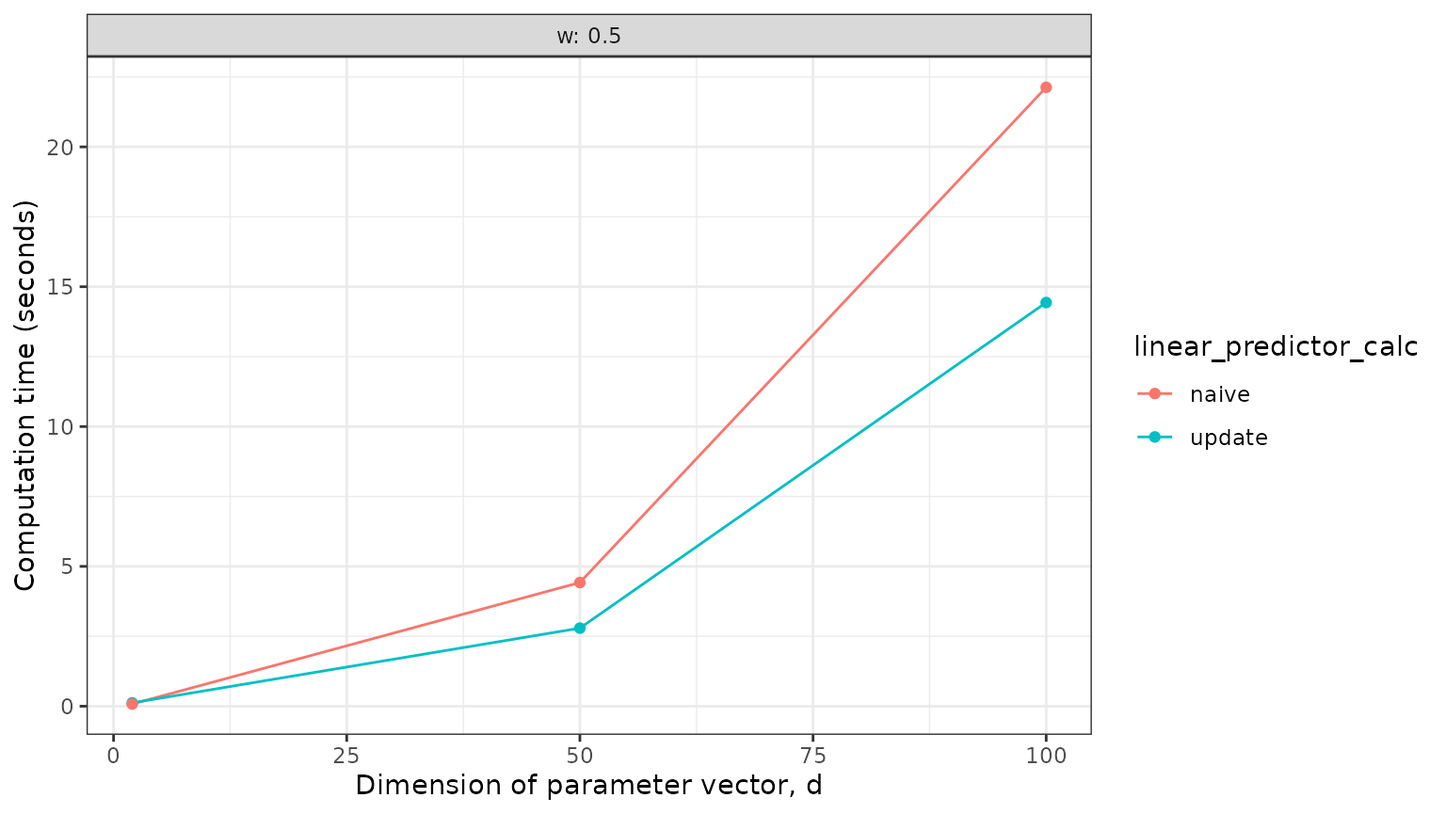
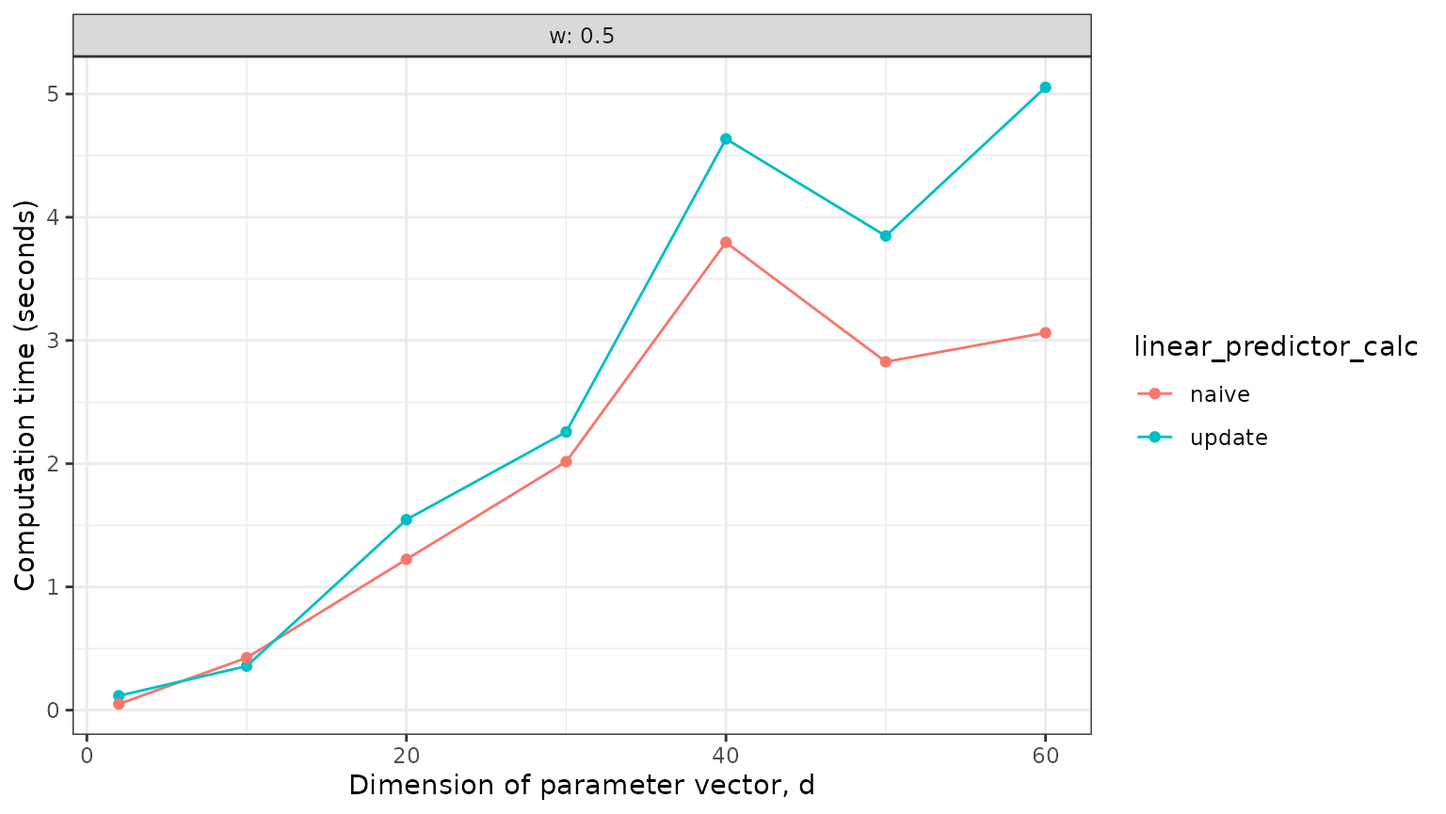
Deploying to gh-pages from @ mathiaslj/mcmcglm@ab415c5ea6511dbfe529859b90fce0186128da7c 🚀

diff --git a/reference/plot_eta_comptime.html b/reference/plot_eta_comptime.html
@@ -76,30 +76,30 @@ affects runtime</p></dd>
 <span class="r-in"><span>                                         n_samples <span class="op">=</span> <span class="fl">100</span>,</span></span>
 <span class="r-in"><span>                                         burnin <span class="op">=</span> <span class="fl">20</span><span class="op">)</span></span></span>
 <span class="r-msg co"><span class="r-pr">#&gt;</span> Sampling from posterior <span style="color: #00BB00;">■■■■■■■                         </span>  19% | ETA:  4s</span>
-<span class="r-msg co"><span class="r-pr">#&gt;</span> Sampling from posterior <span style="color: #00BB00;">■■■■■■■■■■■■■■■■■■■■■■■■■■■■    </span>  91% | ETA:  0s</span>
+<span class="r-msg co"><span class="r-pr">#&gt;</span> Sampling from posterior <span style="color: #00BB00;">■■■■■■■■■■■■■■■■■■■■■■■■        </span>  77% | ETA:  1s</span>
 <span class="r-msg co"><span class="r-pr">#&gt;</span> Sampling from posterior <span style="color: #00BB00;">■■■■■■■■■■■■■■■■■■■■■■■■■■■■■■■ </span> 100% | ETA:  0s</span>
-<span class="r-msg co"><span class="r-pr">#&gt;</span> Sampling from posterior <span style="color: #00BB00;">■■■■■■■■■■■■■■■■■■■■■■■         </span>  73% | ETA:  1s</span>
+<span class="r-msg co"><span class="r-pr">#&gt;</span> Sampling from posterior <span style="color: #00BB00;">■■■■■■■■■■■■■■■■■■■             </span>  59% | ETA:  2s</span>
 <span class="r-msg co"><span class="r-pr">#&gt;</span> Sampling from posterior <span style="color: #00BB00;">■■■■■■■■■■■■■■■■■■■■■■■■■■■■■■■ </span> 100% | ETA:  0s</span>
-<span class="r-msg co"><span class="r-pr">#&gt;</span> Sampling from posterior <span style="color: #00BB00;">■■■■■                           </span>  13% | ETA: 14s</span>
-<span class="r-msg co"><span class="r-pr">#&gt;</span> Sampling from posterior <span style="color: #00BB00;">■■■■■■■■■■■■■■■                 </span>  48% | ETA:  5s</span>
-<span class="r-msg co"><span class="r-pr">#&gt;</span> Sampling from posterior <span style="color: #00BB00;">■■■■■■■■■■■■■■■■■■■■■■■■■■■     </span>  86% | ETA:  1s</span>
+<span class="r-msg co"><span class="r-pr">#&gt;</span> Sampling from posterior <span style="color: #00BB00;">■■■                             </span>   7% | ETA: 21s</span>
+<span class="r-msg co"><span class="r-pr">#&gt;</span> Sampling from posterior <span style="color: #00BB00;">■■■■■■■■■■■■■■                  </span>  43% | ETA:  6s</span>
+<span class="r-msg co"><span class="r-pr">#&gt;</span> Sampling from posterior <span style="color: #00BB00;">■■■■■■■■■■■■■■■■■■■■■■■■■       </span>  80% | ETA:  2s</span>
 <span class="r-msg co"><span class="r-pr">#&gt;</span> Sampling from posterior <span style="color: #00BB00;">■■■■■■■■■■■■■■■■■■■■■■■■■■■■■■■ </span> 100% | ETA:  0s</span>
-<span class="r-msg co"><span class="r-pr">#&gt;</span> Sampling from posterior <span style="color: #00BB00;">■■                              </span>   3% | ETA:  1m</span>
-<span class="r-msg co"><span class="r-pr">#&gt;</span> Sampling from posterior <span style="color: #00BB00;">■■■■■■■■■■■                     </span>  34% | ETA:  9s</span>
-<span class="r-msg co"><span class="r-pr">#&gt;</span> Sampling from posterior <span style="color: #00BB00;">■■■■■■■■■■■■■■■■■■■■■■■■        </span>  78% | ETA:  2s</span>
+<span class="r-msg co"><span class="r-pr">#&gt;</span> Sampling from posterior <span style="color: #00BB00;">■■                              </span>   2% | ETA:  1m</span>
+<span class="r-msg co"><span class="r-pr">#&gt;</span> Sampling from posterior <span style="color: #00BB00;">■■■■■■■■■                       </span>  27% | ETA: 12s</span>
+<span class="r-msg co"><span class="r-pr">#&gt;</span> Sampling from posterior <span style="color: #00BB00;">■■■■■■■■■■■■■■■■■■■■■■          </span>  70% | ETA:  3s</span>
 <span class="r-msg co"><span class="r-pr">#&gt;</span> Sampling from posterior <span style="color: #00BB00;">■■■■■■■■■■■■■■■■■■■■■■■■■■■■■■■ </span> 100% | ETA:  0s</span>
 <span class="r-msg co"><span class="r-pr">#&gt;</span> Sampling from posterior <span style="color: #00BB00;">■                               </span>   1% | ETA:  4m</span>
-<span class="r-msg co"><span class="r-pr">#&gt;</span> Sampling from posterior <span style="color: #00BB00;">■■■                             </span>   7% | ETA:  1m</span>
-<span class="r-msg co"><span class="r-pr">#&gt;</span> Sampling from posterior <span style="color: #00BB00;">■■■■■■■■                        </span>  24% | ETA: 24s</span>
-<span class="r-msg co"><span class="r-pr">#&gt;</span> Sampling from posterior <span style="color: #00BB00;">■■■■■■■■■■■■■■                  </span>  44% | ETA: 13s</span>
-<span class="r-msg co"><span class="r-pr">#&gt;</span> Sampling from posterior <span style="color: #00BB00;">■■■■■■■■■■■■■■■■■■■■■           </span>  66% | ETA:  7s</span>
-<span class="r-msg co"><span class="r-pr">#&gt;</span> Sampling from posterior <span style="color: #00BB00;">■■■■■■■■■■■■■■■■■■■■■■■■■■■■    </span>  89% | ETA:  2s</span>
+<span class="r-msg co"><span class="r-pr">#&gt;</span> Sampling from posterior <span style="color: #00BB00;">■■■                             </span>   5% | ETA:  1m</span>
+<span class="r-msg co"><span class="r-pr">#&gt;</span> Sampling from posterior <span style="color: #00BB00;">■■■■■■■                         </span>  20% | ETA: 28s</span>
+<span class="r-msg co"><span class="r-pr">#&gt;</span> Sampling from posterior <span style="color: #00BB00;">■■■■■■■■■■■■■                   </span>  40% | ETA: 15s</span>
+<span class="r-msg co"><span class="r-pr">#&gt;</span> Sampling from posterior <span style="color: #00BB00;">■■■■■■■■■■■■■■■■■■■             </span>  61% | ETA:  8s</span>
+<span class="r-msg co"><span class="r-pr">#&gt;</span> Sampling from posterior <span style="color: #00BB00;">■■■■■■■■■■■■■■■■■■■■■■■■■■      </span>  83% | ETA:  3s</span>
 <span class="r-msg co"><span class="r-pr">#&gt;</span> Sampling from posterior <span style="color: #00BB00;">■■■■■■■■■■■■■■■■■■■■■■■■■■■■■■■ </span> 100% | ETA:  0s</span>
-<span class="r-msg co"><span class="r-pr">#&gt;</span> Sampling from posterior <span style="color: #00BB00;">■■                              </span>   3% | ETA: 48s</span>
-<span class="r-msg co"><span class="r-pr">#&gt;</span> Sampling from posterior <span style="color: #00BB00;">■■■■■■■■■                       </span>  26% | ETA: 13s</span>
-<span class="r-msg co"><span class="r-pr">#&gt;</span> Sampling from posterior <span style="color: #00BB00;">■■■■■■■■■■■■■■■■                </span>  49% | ETA:  8s</span>
-<span class="r-msg co"><span class="r-pr">#&gt;</span> Sampling from posterior <span style="color: #00BB00;">■■■■■■■■■■■■■■■■■■■■■■■         </span>  74% | ETA:  4s</span>
-<span class="r-msg co"><span class="r-pr">#&gt;</span> Sampling from posterior <span style="color: #00BB00;">■■■■■■■■■■■■■■■■■■■■■■■■■■■■■■■ </span>  99% | ETA:  0s</span>
+<span class="r-msg co"><span class="r-pr">#&gt;</span> Sampling from posterior <span style="color: #00BB00;">■                               </span>   1% | ETA:  2m</span>
+<span class="r-msg co"><span class="r-pr">#&gt;</span> Sampling from posterior <span style="color: #00BB00;">■■■■■■■                         </span>  20% | ETA: 15s</span>
+<span class="r-msg co"><span class="r-pr">#&gt;</span> Sampling from posterior <span style="color: #00BB00;">■■■■■■■■■■■■■■                  </span>  43% | ETA:  9s</span>
+<span class="r-msg co"><span class="r-pr">#&gt;</span> Sampling from posterior <span style="color: #00BB00;">■■■■■■■■■■■■■■■■■■■■■           </span>  68% | ETA:  5s</span>
+<span class="r-msg co"><span class="r-pr">#&gt;</span> Sampling from posterior <span style="color: #00BB00;">■■■■■■■■■■■■■■■■■■■■■■■■■■■■■   </span>  93% | ETA:  1s</span>
 <span class="r-msg co"><span class="r-pr">#&gt;</span> Sampling from posterior <span style="color: #00BB00;">■■■■■■■■■■■■■■■■■■■■■■■■■■■■■■■ </span> 100% | ETA:  0s</span>
 <span class="r-in"><span><span class="fu">plot_eta_comptime</span><span class="op">(</span><span class="va">res</span><span class="op">)</span></span></span>
 <span class="r-msg co"><span class="r-pr">#&gt;</span> Don't know how to automatically pick scale for object of type <span style="color: #0000BB;">&lt;difftime&gt;</span>.</span>

diff --git a/reference/compare_eta_comptime_across_nvars.html b/reference/compare_eta_comptime_across_nvars.html
@@ -146,12 +146,12 @@ than the number of available cores</p></dd>
 <span class="r-in"><span>                                  n_samples <span class="op">=</span> <span class="fl">100</span>,</span></span>
 <span class="r-in"><span>                                  burnin <span class="op">=</span> <span class="fl">20</span><span class="op">)</span></span></span>
 <span class="r-msg co"><span class="r-pr">#&gt;</span> Sampling from posterior <span style="color: #00BB00;">■■■■■■■                         </span>  19% | ETA:  4s</span>
+<span class="r-msg co"><span class="r-pr">#&gt;</span> Sampling from posterior <span style="color: #00BB00;">■■■■■■■■■■■■■■■■■■■■■■■■■■■■■■  </span>  97% | ETA:  0s</span>
 <span class="r-msg co"><span class="r-pr">#&gt;</span> Sampling from posterior <span style="color: #00BB00;">■■■■■■■■■■■■■■■■■■■■■■■■■■■■■■■ </span> 100% | ETA:  0s</span>
-<span class="r-msg co"><span class="r-pr">#&gt;</span> Sampling from posterior <span style="color: #00BB00;">■■■■■■                          </span>  18% | ETA:  5s</span>
-<span class="r-msg co"><span class="r-pr">#&gt;</span> Sampling from posterior <span style="color: #00BB00;">■■■■■■■■■■■■■■■■■■■■■■■■        </span>  78% | ETA:  1s</span>
+<span class="r-msg co"><span class="r-pr">#&gt;</span> Sampling from posterior <span style="color: #00BB00;">■■■■■■■■■■■■■■■■■■■■■■■         </span>  73% | ETA:  1s</span>
 <span class="r-msg co"><span class="r-pr">#&gt;</span> Sampling from posterior <span style="color: #00BB00;">■■■■■■■■■■■■■■■■■■■■■■■■■■■■■■■ </span> 100% | ETA:  0s</span>
-<span class="r-msg co"><span class="r-pr">#&gt;</span> Sampling from posterior <span style="color: #00BB00;">■■■■■                           </span>  12% | ETA: 16s</span>
-<span class="r-msg co"><span class="r-pr">#&gt;</span> Sampling from posterior <span style="color: #00BB00;">■■■■■■■■■■■■■■■■                </span>  51% | ETA:  5s</span>
+<span class="r-msg co"><span class="r-pr">#&gt;</span> Sampling from posterior <span style="color: #00BB00;">■■■■                            </span>  10% | ETA: 18s</span>
+<span class="r-msg co"><span class="r-pr">#&gt;</span> Sampling from posterior <span style="color: #00BB00;">■■■■■■■■■■■■■■■■                </span>  50% | ETA:  5s</span>
 <span class="r-msg co"><span class="r-pr">#&gt;</span> Sampling from posterior <span style="color: #00BB00;">■■■■■■■■■■■■■■■■■■■■■■■■■■■■    </span>  90% | ETA:  1s</span>
 <span class="r-msg co"><span class="r-pr">#&gt;</span> Sampling from posterior <span style="color: #00BB00;">■■■■■■■■■■■■■■■■■■■■■■■■■■■■■■■ </span> 100% | ETA:  0s</span>
 <span class="r-msg co"><span class="r-pr">#&gt;</span> Sampling from posterior <span style="color: #00BB00;">■■■■■                           </span>  13% | ETA: 15s</span>
@@ -162,22 +162,23 @@ than the number of available cores</p></dd>
 <span class="r-msg co"><span class="r-pr">#&gt;</span> Sampling from posterior <span style="color: #00BB00;">■■■■■                           </span>  12% | ETA: 38s</span>
 <span class="r-msg co"><span class="r-pr">#&gt;</span> Sampling from posterior <span style="color: #00BB00;">■■■■■■■■■■■                     </span>  32% | ETA: 17s</span>
 <span class="r-msg co"><span class="r-pr">#&gt;</span> Sampling from posterior <span style="color: #00BB00;">■■■■■■■■■■■■■■■■■               </span>  54% | ETA: 10s</span>
-<span class="r-msg co"><span class="r-pr">#&gt;</span> Sampling from posterior <span style="color: #00BB00;">■■■■■■■■■■■■■■■■■■■■■■■■        </span>  76% | ETA:  4s</span>
+<span class="r-msg co"><span class="r-pr">#&gt;</span> Sampling from posterior <span style="color: #00BB00;">■■■■■■■■■■■■■■■■■■■■■■■■        </span>  77% | ETA:  4s</span>
 <span class="r-msg co"><span class="r-pr">#&gt;</span> Sampling from posterior <span style="color: #00BB00;">■■■■■■■■■■■■■■■■■■■■■■■■■■■■■■■ </span> 100% | ETA:  0s</span>
-<span class="r-msg co"><span class="r-pr">#&gt;</span> Sampling from posterior <span style="color: #00BB00;">■■■■                            </span>   9% | ETA: 30s</span>
-<span class="r-msg co"><span class="r-pr">#&gt;</span> Sampling from posterior <span style="color: #00BB00;">■■■■■■■■■■■                     </span>  32% | ETA: 13s</span>
-<span class="r-msg co"><span class="r-pr">#&gt;</span> Sampling from posterior <span style="color: #00BB00;">■■■■■■■■■■■■■■■■■■              </span>  56% | ETA:  7s</span>
-<span class="r-msg co"><span class="r-pr">#&gt;</span> Sampling from posterior <span style="color: #00BB00;">■■■■■■■■■■■■■■■■■■■■■■■■■       </span>  80% | ETA:  3s</span>
+<span class="r-msg co"><span class="r-pr">#&gt;</span> Sampling from posterior <span style="color: #00BB00;">■                               </span>   1% | ETA:  3m</span>
+<span class="r-msg co"><span class="r-pr">#&gt;</span> Sampling from posterior <span style="color: #00BB00;">■■■■                            </span>  10% | ETA: 28s</span>
+<span class="r-msg co"><span class="r-pr">#&gt;</span> Sampling from posterior <span style="color: #00BB00;">■■■■■■■■■■■                     </span>  33% | ETA: 12s</span>
+<span class="r-msg co"><span class="r-pr">#&gt;</span> Sampling from posterior <span style="color: #00BB00;">■■■■■■■■■■■■■■■■■■              </span>  58% | ETA:  7s</span>
+<span class="r-msg co"><span class="r-pr">#&gt;</span> Sampling from posterior <span style="color: #00BB00;">■■■■■■■■■■■■■■■■■■■■■■■■■■      </span>  82% | ETA:  3s</span>
 <span class="r-msg co"><span class="r-pr">#&gt;</span> Sampling from posterior <span style="color: #00BB00;">■■■■■■■■■■■■■■■■■■■■■■■■■■■■■■■ </span> 100% | ETA:  0s</span>
 <span class="r-out co"><span class="r-pr">#&gt;</span>              time linear_predictor_calc n_vars n_samples beta_mean</span>
-<span class="r-out co"><span class="r-pr">#&gt;</span> 1  0.3406396 secs                update      2       100         0</span>
-<span class="r-out co"><span class="r-pr">#&gt;</span> 2  0.3130715 secs                 naive      2       100         0</span>
-<span class="r-out co"><span class="r-pr">#&gt;</span> 3  3.8115304 secs                update     20       100         0</span>
-<span class="r-out co"><span class="r-pr">#&gt;</span> 4  3.8756001 secs                 naive     20       100         0</span>
-<span class="r-out co"><span class="r-pr">#&gt;</span> 5  8.9618044 secs                update     40       100         0</span>
-<span class="r-out co"><span class="r-pr">#&gt;</span> 6  9.0437057 secs                 naive     40       100         0</span>
-<span class="r-out co"><span class="r-pr">#&gt;</span> 7 17.2736514 secs                update     60       100         0</span>
-<span class="r-out co"><span class="r-pr">#&gt;</span> 8 14.3368897 secs                 naive     60       100         0</span>
+<span class="r-out co"><span class="r-pr">#&gt;</span> 1  0.3397615 secs                update      2       100         0</span>
+<span class="r-out co"><span class="r-pr">#&gt;</span> 2  0.3101087 secs                 naive      2       100         0</span>
+<span class="r-out co"><span class="r-pr">#&gt;</span> 3  3.8275478 secs                update     20       100         0</span>
+<span class="r-out co"><span class="r-pr">#&gt;</span> 4  3.8218234 secs                 naive     20       100         0</span>
+<span class="r-out co"><span class="r-pr">#&gt;</span> 5  8.8243313 secs                update     40       100         0</span>
+<span class="r-out co"><span class="r-pr">#&gt;</span> 6  9.0535982 secs                 naive     40       100         0</span>
+<span class="r-out co"><span class="r-pr">#&gt;</span> 7 17.1567833 secs                update     60       100         0</span>
+<span class="r-out co"><span class="r-pr">#&gt;</span> 8 14.1730142 secs                 naive     60       100         0</span>
 <span class="r-out co"><span class="r-pr">#&gt;</span>   beta_variance   family sd                 qslice_fun   w parallelised</span>
 <span class="r-out co"><span class="r-pr">#&gt;</span> 1             1 gaussian  1 qslice::slice_stepping_out 0.5        FALSE</span>
 <span class="r-out co"><span class="r-pr">#&gt;</span> 2             1 gaussian  1 qslice::slice_stepping_out 0.5        FALSE</span>

diff --git a/articles/performance.html b/articles/performance.html
@@ -74,24 +74,31 @@
 </h3>
 <div class="sourceCode" id="cb1"><pre class="downlit sourceCode r">
 <code class="sourceCode R"><span><span class="va">res</span> <span class="op">&lt;-</span> <span class="fu"><a href="../reference/compare_eta_comptime_across_nvars.html">compare_eta_comptime_across_nvars</a></span><span class="op">(</span></span>
-<span>  n_vars <span class="op">=</span> <span class="fu"><a href="https://rdrr.io/r/base/c.html" class="external-link">c</a></span><span class="op">(</span><span class="fl">2</span>, <span class="fu"><a href="https://rdrr.io/r/base/seq.html" class="external-link">seq</a></span><span class="op">(</span>from <span class="op">=</span> <span class="fl">50</span>, to <span class="op">=</span> <span class="fl">100</span>, by <span class="op">=</span> <span class="fl">50</span><span class="op">)</span><span class="op">)</span>,</span>
+<span>  n_vars <span class="op">=</span> <span class="fu"><a href="https://rdrr.io/r/base/c.html" class="external-link">c</a></span><span class="op">(</span><span class="fl">2</span>, <span class="fu"><a href="https://rdrr.io/r/base/seq.html" class="external-link">seq</a></span><span class="op">(</span>from <span class="op">=</span> <span class="fl">10</span>, to <span class="op">=</span> <span class="fl">60</span>, by <span class="op">=</span> <span class="fl">10</span><span class="op">)</span><span class="op">)</span>,</span>
 <span>  n_samples <span class="op">=</span> <span class="fl">10</span>,</span>
 <span>  burnin <span class="op">=</span> <span class="fl">1</span>,</span>
 <span>  w <span class="op">=</span> <span class="fl">0.5</span>,</span>
 <span>  parallelise <span class="op">=</span> <span class="cn">TRUE</span><span class="op">)</span></span>
-<span><span class="co">#&gt; Sampling from posterior <span style="color: #00BB00;">■■■■                            </span>  10% | ETA: 13s</span></span>
-<span><span class="co">#&gt; Sampling from posterior <span style="color: #00BB00;">■■■■■■■■■■■■■■■■■■■■■■■■■■■■    </span>  90% | ETA:  0s</span></span>
+<span><span class="co">#&gt; Sampling from posterior <span style="color: #00BB00;">■■■■■■■■■■■■■■■■                </span>  50% | ETA:  1s</span></span>
 <span><span class="co">#&gt; Sampling from posterior <span style="color: #00BB00;">■■■■■■■■■■■■■■■■■■■■■■■■■■■■■■■ </span> 100% | ETA:  0s</span></span>
-<span><span class="co">#&gt; Sampling from posterior <span style="color: #00BB00;">■■■■■■■■■■                      </span>  30% | ETA:  7s</span></span>
+<span><span class="co">#&gt; Sampling from posterior <span style="color: #00BB00;">■■■■                            </span>  10% | ETA: 11s</span></span>
 <span><span class="co">#&gt; Sampling from posterior <span style="color: #00BB00;">■■■■■■■■■■■■■■■■■■■■■■■■■■■■■■■ </span> 100% | ETA:  0s</span></span>
-<span><span class="co">#&gt; Sampling from posterior <span style="color: #00BB00;">■■■■                            </span>  10% | ETA:  2m</span></span>
-<span><span class="co">#&gt; Sampling from posterior <span style="color: #00BB00;">■■■■■■■                         </span>  20% | ETA: 46s</span></span>
+<span><span class="co">#&gt; Sampling from posterior <span style="color: #00BB00;">■■■■                            </span>  10% | ETA: 12s</span></span>
 <span><span class="co">#&gt; Sampling from posterior <span style="color: #00BB00;">■■■■■■■■■■■■■■■■■■■■■■■■■■■■■■■ </span> 100% | ETA:  0s</span></span>
-<span><span class="co">#&gt; Sampling from posterior <span style="color: #00BB00;">■■■■                            </span>  10% | ETA:  2m</span></span>
-<span><span class="co">#&gt; Sampling from posterior <span style="color: #00BB00;">■■■■■■■                         </span>  20% | ETA:  1m</span></span>
-<span><span class="co">#&gt; Sampling from posterior <span style="color: #00BB00;">■■■■■■■■■■                      </span>  30% | ETA: 39s</span></span>
-<span><span class="co">#&gt; Sampling from posterior <span style="color: #00BB00;">■■■■■■■■■■■■■                   </span>  40% | ETA: 28s</span></span>
-<span><span class="co">#&gt; Sampling from posterior <span style="color: #00BB00;">■■■■■■■■■■■■■■■■■■■■■■■■■■■■    </span>  90% | ETA:  2s</span></span>
+<span><span class="co">#&gt; Sampling from posterior <span style="color: #00BB00;">■■■■                            </span>  10% | ETA: 19s</span></span>
+<span><span class="co">#&gt; Sampling from posterior <span style="color: #00BB00;">■■■■■■■                         </span>  20% | ETA: 11s</span></span>
+<span><span class="co">#&gt; Sampling from posterior <span style="color: #00BB00;">■■■■■■■■■■■■■■■■■■■■■■■■■■■■■■■ </span> 100% | ETA:  0s</span></span>
+<span><span class="co">#&gt; Sampling from posterior <span style="color: #00BB00;">■■■■                            </span>  10% | ETA: 21s</span></span>
+<span><span class="co">#&gt; Sampling from posterior <span style="color: #00BB00;">■■■■■■■■■■■■■■■■■■■■■■■■■■■■■■■ </span> 100% | ETA:  0s</span></span>
+<span><span class="co">#&gt; Sampling from posterior <span style="color: #00BB00;">■■■■                            </span>  10% | ETA: 20s</span></span>
+<span><span class="co">#&gt; Sampling from posterior <span style="color: #00BB00;">■■■■■■■                         </span>  20% | ETA: 10s</span></span>
+<span><span class="co">#&gt; Sampling from posterior <span style="color: #00BB00;">■■■■■■■■■■■■■■■■■■■■■■■■■■■■■■■ </span> 100% | ETA:  0s</span></span>
+<span><span class="co">#&gt; Sampling from posterior <span style="color: #00BB00;">■■■■■■■                         </span>  20% | ETA:  6s</span></span>
+<span><span class="co">#&gt; Sampling from posterior <span style="color: #00BB00;">■■■■■■■■■■■■■■■■■■■■■■■■■■■■■■■ </span> 100% | ETA:  0s</span></span>
+<span><span class="co">#&gt; Sampling from posterior <span style="color: #00BB00;">■■■■                            </span>  10% | ETA: 29s</span></span>
+<span><span class="co">#&gt; Sampling from posterior <span style="color: #00BB00;">■■■■■■■■■■■■■■■■■■■■■■■■■       </span>  80% | ETA:  1s</span></span>
+<span><span class="co">#&gt; Sampling from posterior <span style="color: #00BB00;">■■■■■■■■■■■■■■■■■■■■■■■■■■■■■■■ </span> 100% | ETA:  0s</span></span>
+<span><span class="co">#&gt; Sampling from posterior <span style="color: #00BB00;">■■■■■■■■■■■■■■■■■■■■■■■■■       </span>  80% | ETA:  1s</span></span>
 <span><span class="co">#&gt; Sampling from posterior <span style="color: #00BB00;">■■■■■■■■■■■■■■■■■■■■■■■■■■■■■■■ </span> 100% | ETA:  0s</span></span></code></pre></div>
 <div class="sourceCode" id="cb2"><pre class="downlit sourceCode r">
 <code class="sourceCode R"><span><span class="fu"><a href="../reference/plot_eta_comptime.html">plot_eta_comptime</a></span><span class="op">(</span><span class="va">res</span>, facet_by <span class="op">=</span> <span class="st">"w"</span><span class="op">)</span></span>

diff --git a/reference/plot_mcmcglm_across_tuningparams.html b/reference/plot_mcmcglm_across_tuningparams.html
@@ -85,11 +85,11 @@ a call to <a href="mcmcglm_across_tuningparams.html">mcmcglm_across_tuningparams
 <span class="r-in"><span>   family <span class="op">=</span> <span class="st">"gaussian"</span>,</span></span>
 <span class="r-in"><span>   data <span class="op">=</span> <span class="va">dat_norm</span></span></span>
 <span class="r-in"><span><span class="op">)</span></span></span>
-<span class="r-msg co"><span class="r-pr">#&gt;</span> Sampling from posterior <span style="color: #00BB00;">■■■■■■■■■■■■■■■                 </span>  46% | ETA:  1s</span>
+<span class="r-msg co"><span class="r-pr">#&gt;</span> Sampling from posterior <span style="color: #00BB00;">■■■■■■■■■■■■■■■■■■■■■■■■■■■■■■■ </span>  99% | ETA:  0s</span>
 <span class="r-msg co"><span class="r-pr">#&gt;</span> Sampling from posterior <span style="color: #00BB00;">■■■■■■■■■■■■■■■■■■■■■■■■■■■■■■■ </span> 100% | ETA:  0s</span>
-<span class="r-msg co"><span class="r-pr">#&gt;</span> Sampling from posterior <span style="color: #00BB00;">■■■■■■■■■■■■■■■■                </span>  49% | ETA:  1s</span>
+<span class="r-msg co"><span class="r-pr">#&gt;</span> Sampling from posterior <span style="color: #00BB00;">■■■■■■■■■■■■■■■                 </span>  45% | ETA:  1s</span>
 <span class="r-msg co"><span class="r-pr">#&gt;</span> Sampling from posterior <span style="color: #00BB00;">■■■■■■■■■■■■■■■■■■■■■■■■■■■■■■■ </span> 100% | ETA:  0s</span>
-<span class="r-msg co"><span class="r-pr">#&gt;</span> Sampling from posterior <span style="color: #00BB00;">■■■■■■■■■■■■■■■■■■■■■■■■■       </span>  79% | ETA:  1s</span>
+<span class="r-msg co"><span class="r-pr">#&gt;</span> Sampling from posterior <span style="color: #00BB00;">■■■■■■■■■■■■■■                  </span>  43% | ETA:  2s</span>
 <span class="r-msg co"><span class="r-pr">#&gt;</span> Sampling from posterior <span style="color: #00BB00;">■■■■■■■■■■■■■■■■■■■■■■■■■■■■■■■ </span> 100% | ETA:  0s</span>
 <span class="r-in"><span></span></span>
 <span class="r-in"><span><span class="fu">plot_mcmcglm_across_tuningparams</span><span class="op">(</span><span class="va">w05_mcmcglms</span><span class="op">)</span></span></span>

diff --git a/articles/customising.html b/articles/customising.html
@@ -113,9 +113,6 @@ in the GLM model, and <code>Y</code> is the response variable.</p>
 <span>                            data <span class="op">=</span> <span class="va">dat_invnorm</span>,</span>
 <span>                            beta_prior <span class="op">=</span> <span class="fu">distributional</span><span class="fu">::</span><span class="fu"><a href="https://pkg.mitchelloharawild.com/distributional/reference/dist_gamma.html" class="external-link">dist_gamma</a></span><span class="op">(</span><span class="fl">1</span>, <span class="fl">1</span><span class="op">)</span>,</span>
 <span>                            w <span class="op">=</span> <span class="fl">0.5</span><span class="op">)</span></span>
-<span><span class="co">#&gt; Sampling from posterior <span style="color: #00BB00;">■■■■■■■■■■■                     </span>  34% | ETA:  2s</span></span>
-<span><span class="co">#&gt; Sampling from posterior <span style="color: #00BB00;">■■■■■■■■■■■■■■■■■■■■■■          </span>  69% | ETA:  1s</span></span>
-<span><span class="co">#&gt; Sampling from posterior <span style="color: #00BB00;">■■■■■■■■■■■■■■■■■■■■■■■■■■■■■■■ </span> 100% | ETA:  0s</span></span>
 <span><span class="fu"><a href="../reference/trace_plot.html">trace_plot</a></span><span class="op">(</span><span class="va">invnorm</span><span class="op">)</span></span></code></pre></div>
 <p><img src="customising_files/figure-html/invgauss-run-show-1.png" width="700"></p>
 <p>where we specify <code><a href="https://rdrr.io/r/stats/family.html" class="external-link">inverse.gaussian()</a></code> as the
